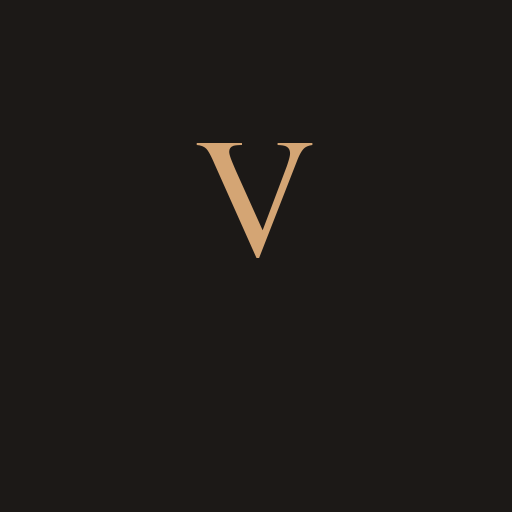
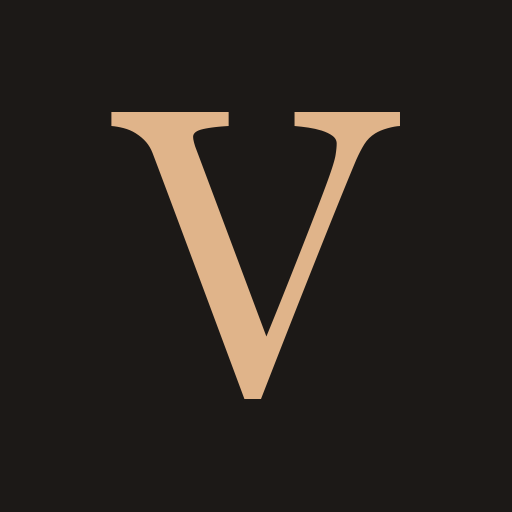
fix: iOS safe-area-inset 전역 적용 + 앱 아이콘 V만 표시로 변경
- index.css body에 env(safe-area-inset-*) padding 전역 추가 — 모든 페이지 상단 겹침 해소
- AILeadOverlay, MantraCorner full-screen fixed 오버레이 paddingTop safe-area 추가
- 앱 아이콘 V 단독 표시 (EILOR 텍스트 제거), 알파채널 제거 (RGB only)
- 1024/512/192px 전 사이즈 일괄 업데이트

Changed region(s): [[0.2188, 0.2188, 0.7812, 0.7812]]

diff --git a/src/index.css b/src/index.css
@@ -73,6 +73,10 @@
 
   body {
     @apply bg-background text-foreground font-sans font-light tracking-normal leading-relaxed;
+    padding-top: env(safe-area-inset-top);
+    padding-bottom: env(safe-area-inset-bottom);
+    padding-left: env(safe-area-inset-left);
+    padding-right: env(safe-area-inset-right);
   }
 
   h1, h2, h3 {

diff --git a/src/components/ai/AILeadOverlay.tsx b/src/components/ai/AILeadOverlay.tsx
@@ -299,6 +299,7 @@ export default function AILeadOverlay({
       style={{
         position: 'fixed', inset: 0, zIndex: 9999, background: C.bg,
         display: 'flex', flexDirection: 'column',
+        paddingTop: 'env(safe-area-inset-top)',
       }}
     >
       {/* ── 접근성 공지 영역 3개 — 항상 DOM에 존재 (내용만 바뀜) ─────────── */}

diff --git a/src/components/set/MantraCorner.tsx b/src/components/set/MantraCorner.tsx
@@ -149,6 +149,7 @@ export default function MantraCorner({ domain }: MantraCornerProps) {
         display: 'flex',
         flexDirection: 'column',
         background: `radial-gradient(60% 50% at 50% 30%, color-mix(in oklch, ${color} 6%, transparent), transparent 70%), var(--background)`,
+        paddingTop: 'env(safe-area-inset-top)',
       }}
     >
       {/* 상단 헤더 */}